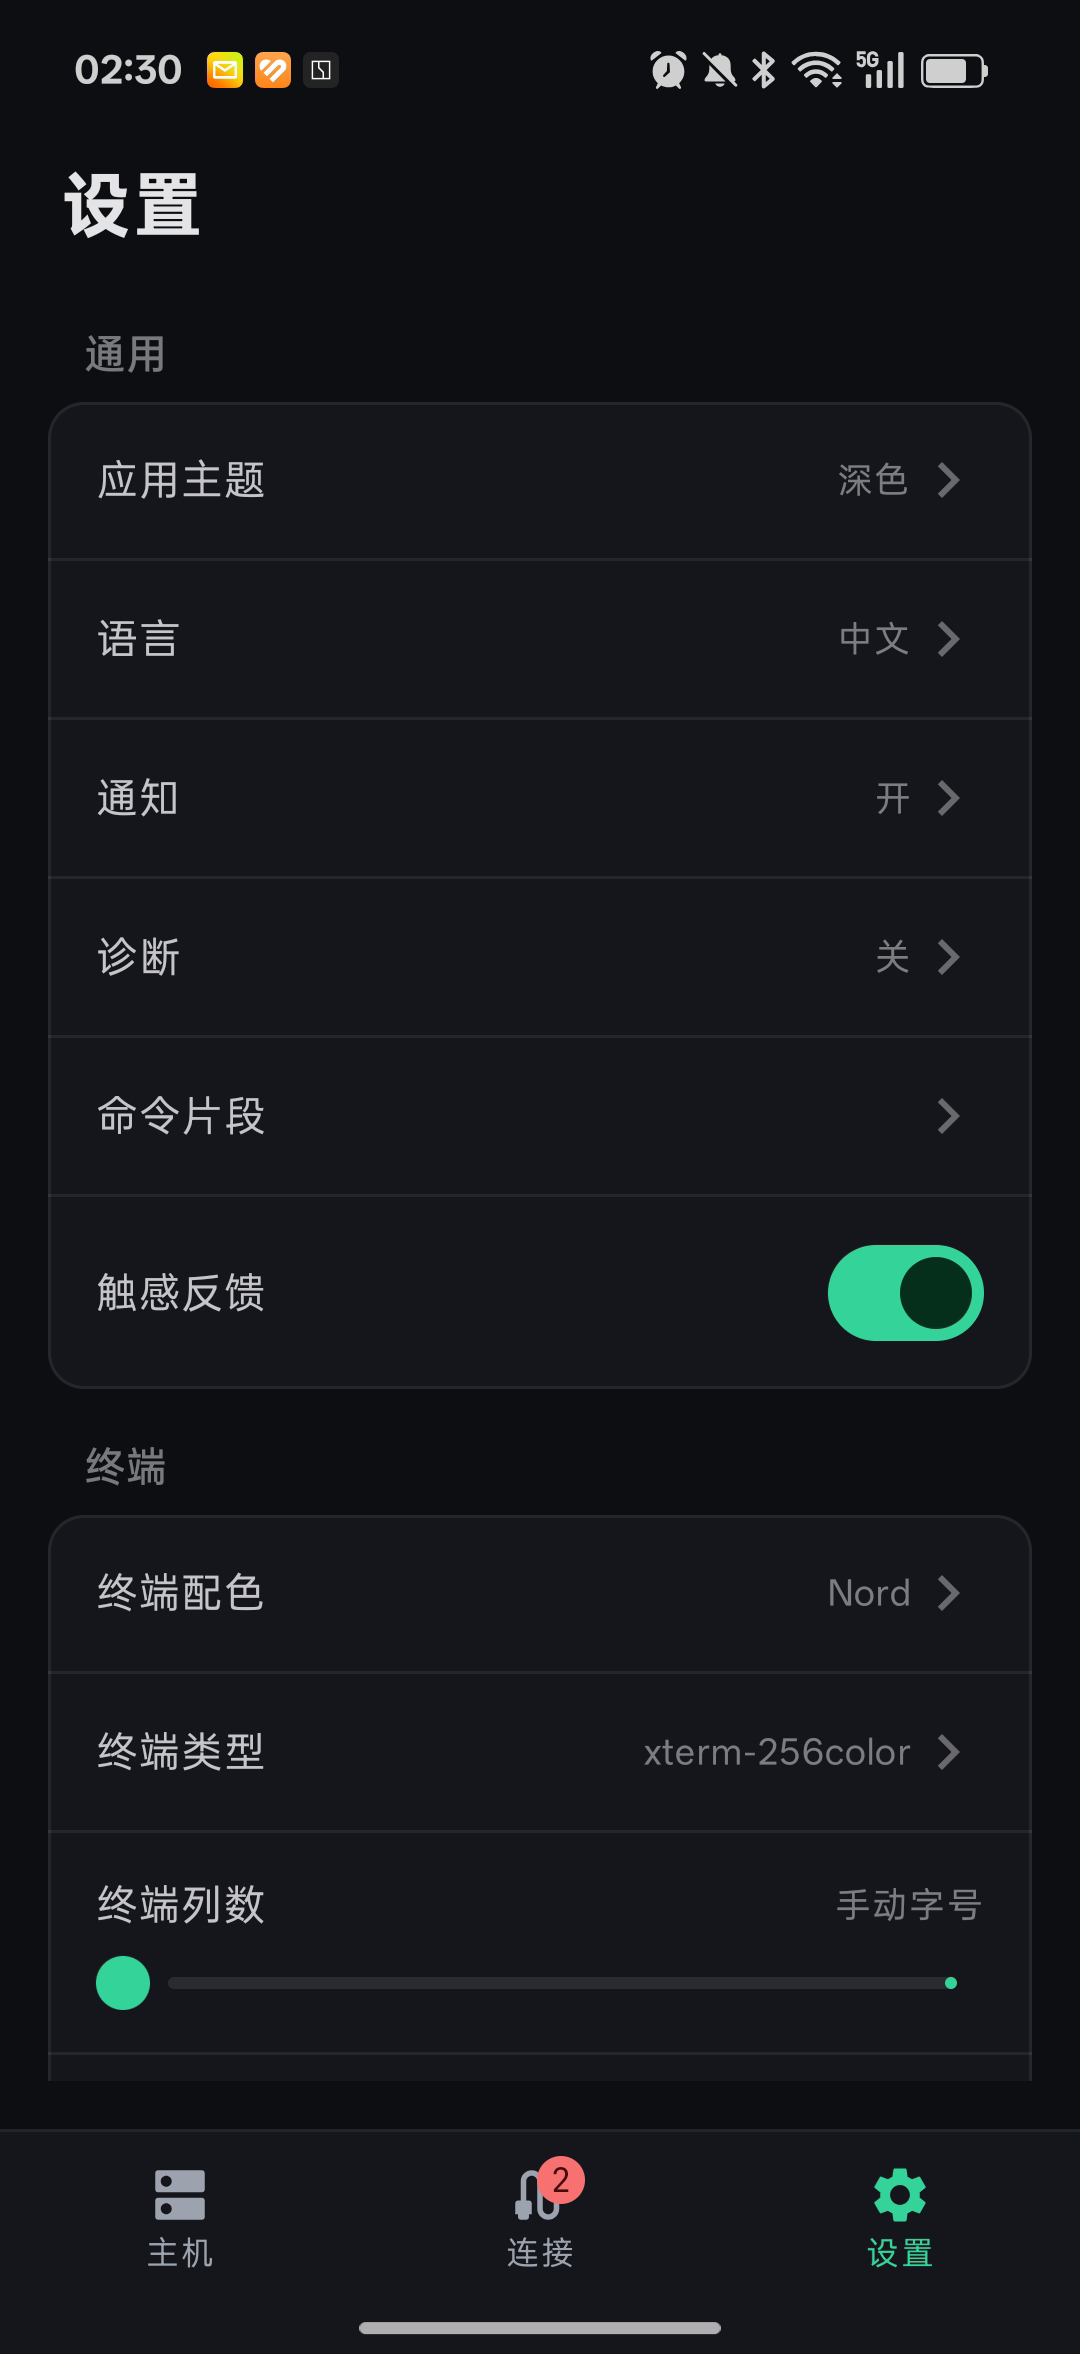
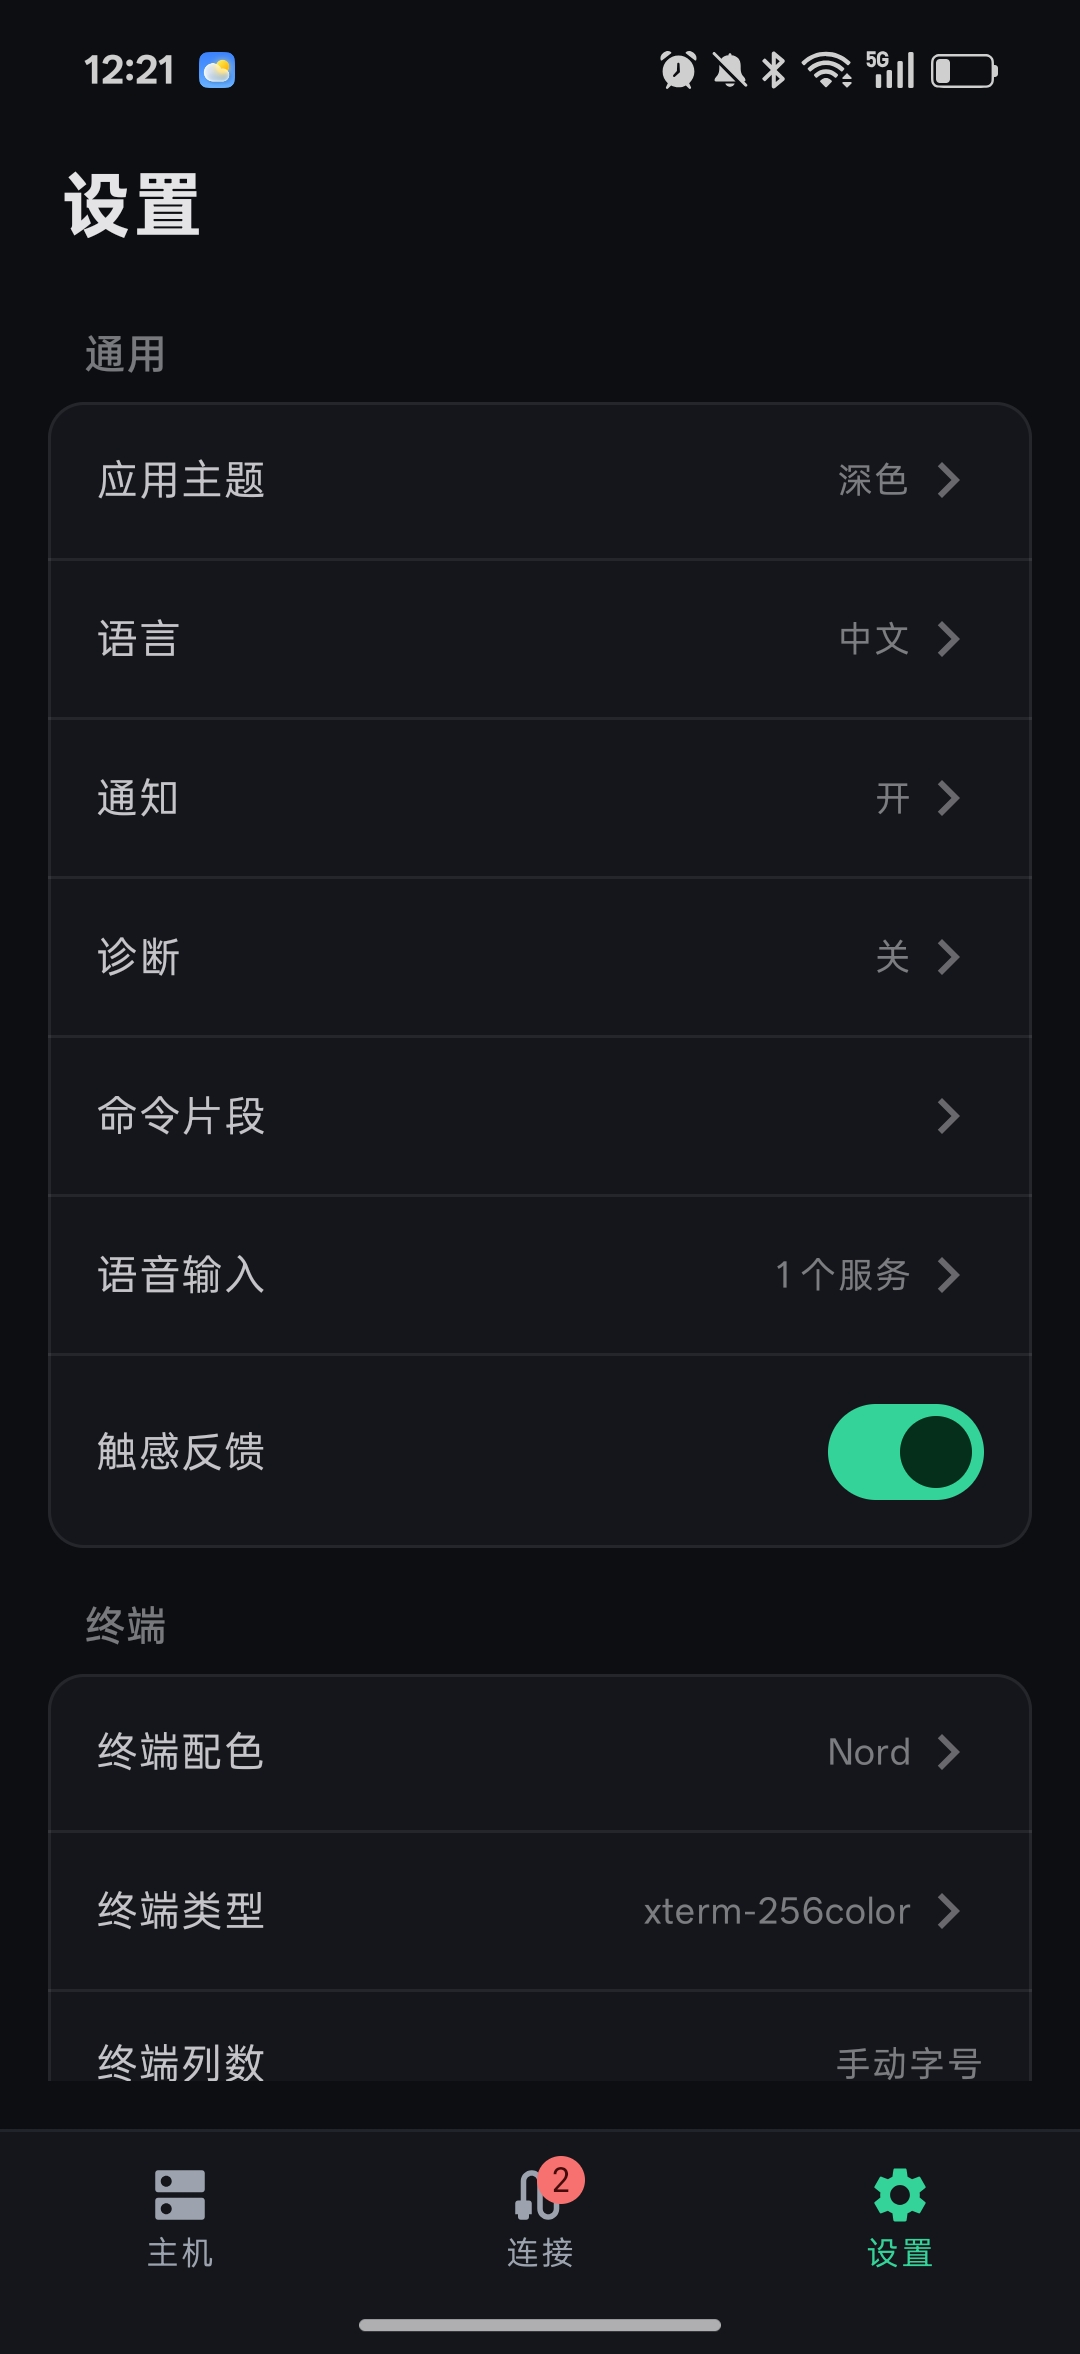
docs: 物料截图替换为最新 UI——终端/设置/SFTP 新版实拍
- terminal-ssh-zh：点开 + 菜单的完整终端视图（pi agent 启动 + tab 栏）
- settings-zh/en：新版设置页（含语音输入入口、命令片段）
- sftp-zh/en：新版文件管理（收藏/排序菜单）
- 删除 terminal-voice（终端相关只留一张，避免重复）

diff --git a/README.zh-CN.md b/README.zh-CN.md
@@ -23,9 +23,6 @@
   <img src="docs/screenshots/sftp-zh.png" width="230" alt="SFTP" />
 </p>
 <p>
-  <img src="docs/screenshots/terminal-voice-zh.png" width="230" alt="语音输入（真机实拍）" />
-</p>
-<p>
   <img src="docs/screenshots/mosh-install-zh.png" width="230" alt="mosh 引导安装" />
   <img src="docs/screenshots/herdr-install-zh.png" width="230" alt="herdr 引导安装" />
 </p>

diff --git a/README.md b/README.md
@@ -23,9 +23,6 @@
   <img src="docs/screenshots/sftp-en.png" width="230" alt="SFTP" />
 </p>
 <p>
-  <img src="docs/screenshots/terminal-voice-zh.png" width="230" alt="Voice input (on-device)" />
-</p>
-<p>
   <img src="docs/screenshots/mosh-install-en.png" width="230" alt="mosh guided install" />
   <img src="docs/screenshots/herdr-install-en.png" width="230" alt="herdr guided install" />
 </p>
